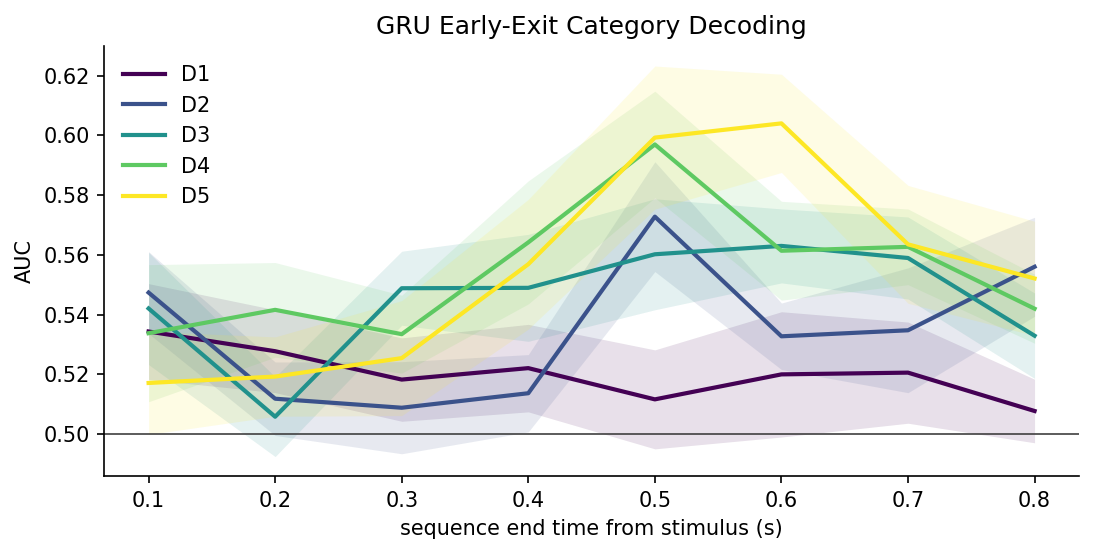
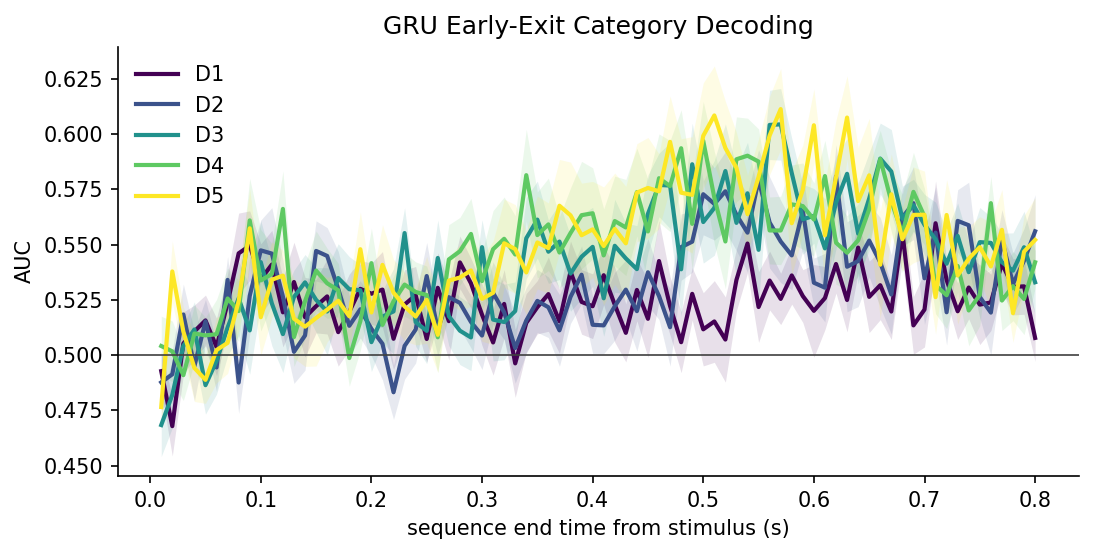
rnn

diff --git a/code/rnn_mvpa_gru_analysis.py b/code/rnn_mvpa_gru_analysis.py
@@ -37,7 +37,7 @@ OUTPUT_DIR = PROJECT_DIR / "output"
 TMIN = 0.0
 TMAX = 0.8
 RESAMPLE_HZ = 128.0
-END_TIMES_SEC = np.array([0.10, 0.20, 0.30, 0.40, 0.50, 0.60, 0.70, 0.80])
+END_TIMES_SEC = np.round(np.arange(0.01, 0.8001, 0.01), 2)
 
 RANDOM_STATE = 42
 HIDDEN_SIZE = 16
@@ -49,7 +49,7 @@ LEARNING_RATE = 0.001
 WEIGHT_DECAY = 0.0001
 MIN_CLASS_TRIALS = 12
 PROGRESS_EVERY_SUBJECTS = 1
-N_WORKERS = 4
+N_WORKERS = 16
 
 torch.set_num_threads(1)
 try:
@@ -452,45 +452,66 @@ def run_rnn_mvpa_gru_analysis(output_dir: Path | str = OUTPUT_DIR):
     qc_csv = output_dir / "rnn_mvpa_gru_qc_log.csv"
     progress_json = output_dir / "rnn_mvpa_gru_progress.json"
 
-    for path in [transfer_csv, transfer_summary_csv, score_csv, score_summary_csv, qc_csv]:
-        if path.exists():
-            path.unlink()
-
     t0 = time.time()
     sessions = load_sequence_sessions(load_epochs=False)
     by_subject = {}
     for item in sessions:
         by_subject.setdefault(int(item["subject"]), {})[int(item["day"])] = item
 
+    subjects = sorted(by_subject)
     all_transfer_rows = []
     all_score_rows = []
     all_qc_rows = []
-    subjects = sorted(by_subject)
+    completed_subjects = set()
+
+    if transfer_csv.exists():
+        existing_transfer = pd.read_csv(transfer_csv)
+        if not existing_transfer.empty:
+            expected_end_times = set(np.round(END_TIMES_SEC, 2).tolist())
+            for subject, g in existing_transfer.groupby("subject"):
+                got_end_times = set(np.round(g["end_time_sec"].to_numpy(float), 2).tolist())
+                if expected_end_times.issubset(got_end_times):
+                    completed_subjects.add(int(subject))
+            existing_transfer = existing_transfer[
+                existing_transfer["subject"].isin(completed_subjects)
+            ].copy()
+            all_transfer_rows = existing_transfer.to_dict("records")
+    if score_csv.exists() and completed_subjects:
+        existing_score = pd.read_csv(score_csv)
+        existing_score = existing_score[existing_score["subject"].isin(completed_subjects)].copy()
+        all_score_rows = existing_score.to_dict("records")
+    if qc_csv.exists():
+        existing_qc = pd.read_csv(qc_csv)
+        all_qc_rows = existing_qc.to_dict("records")
+
+    subjects_to_run = [subject for subject in subjects if subject not in completed_subjects]
     write_progress(
         progress_json,
         {
             "status": "started",
             "subjects_total": len(subjects),
-            "subjects_done": 0,
+            "subjects_done": len(completed_subjects),
             "last_subject": None,
             "elapsed_min": 0.0,
         },
     )
     print(
-        f"[RNN MVPA] starting {len(subjects)} subjects, "
+        f"[RNN MVPA] starting {len(subjects_to_run)} missing of {len(subjects)} subjects, "
         f"{len(END_TIMES_SEC)} end times, {N_WORKERS} workers",
         flush=True,
     )
+    if completed_subjects:
+        done_text = ", ".join(f"P{subject}" for subject in sorted(completed_subjects))
+        print(f"[RNN MVPA] resuming after completed subjects: {done_text}", flush=True)
 
-    def record_subject_result(subject_i, subject, transfer_rows, score_rows, qc_rows):
-        all_transfer_rows.extend(transfer_rows)
-        all_score_rows.extend(score_rows)
-        all_qc_rows.extend(qc_rows)
-
+    def write_current_outputs():
         transfer_df = pd.DataFrame(all_transfer_rows)
         score_df = pd.DataFrame(all_score_rows)
         qc_df = pd.DataFrame(all_qc_rows)
         if not transfer_df.empty:
+            transfer_df = transfer_df.sort_values(
+                ["subject", "end_time_sec", "train_day", "test_day"]
+            )
             transfer_df.to_csv(transfer_csv, index=False)
             transfer_summary = (
                 transfer_df.groupby(["end_time_sec", "train_day", "test_day"], as_index=False)
@@ -509,31 +530,39 @@ def run_rnn_mvpa_gru_analysis(output_dir: Path | str = OUTPUT_DIR):
             transfer_summary.to_csv(transfer_summary_csv, index=False)
         if not score_df.empty:
             score_df = add_delta_bic(score_df)
+            score_df = score_df.sort_values(["subject", "end_time_sec", "model_label"])
             score_df.to_csv(score_csv, index=False)
             summarize_scores(score_df).to_csv(score_summary_csv, index=False)
         if not qc_df.empty:
             qc_df.to_csv(qc_csv, index=False)
 
+    def record_subject_result(subject_i, subject, transfer_rows, score_rows, qc_rows):
+        all_transfer_rows.extend(transfer_rows)
+        all_score_rows.extend(score_rows)
+        all_qc_rows.extend(qc_rows)
+        write_current_outputs()
+
         elapsed_min = (time.time() - t0) / 60.0
+        subjects_done = len(completed_subjects) + subject_i
         write_progress(
             progress_json,
             {
                 "status": "running",
                 "subjects_total": len(subjects),
-                "subjects_done": subject_i,
+                "subjects_done": subjects_done,
                 "last_subject": int(subject),
                 "elapsed_min": round(elapsed_min, 2),
             },
         )
         if subject_i % PROGRESS_EVERY_SUBJECTS == 0:
             print(
-                f"[RNN MVPA] subject {subject_i}/{len(subjects)} done "
+                f"[RNN MVPA] subject {subjects_done}/{len(subjects)} done "
                 f"(P{subject}, {elapsed_min:.1f} min)",
                 flush=True,
             )
 
     if N_WORKERS == 1:
-        for subject_i, subject in enumerate(subjects, start=1):
+        for subject_i, subject in enumerate(subjects_to_run, start=1):
             subject, transfer_rows, score_rows, qc_rows = run_subject_job(
                 subject,
                 by_subject[subject],
@@ -543,19 +572,20 @@ def run_rnn_mvpa_gru_analysis(output_dir: Path | str = OUTPUT_DIR):
         with ProcessPoolExecutor(max_workers=N_WORKERS) as pool:
             futures = {
                 pool.submit(run_subject_job, subject, by_subject[subject]): subject
-                for subject in subjects
+                for subject in subjects_to_run
             }
             for subject_i, fut in enumerate(as_completed(futures), start=1):
                 subject, transfer_rows, score_rows, qc_rows = fut.result()
                 record_subject_result(subject_i, subject, transfer_rows, score_rows, qc_rows)
 
     elapsed_min = (time.time() - t0) / 60.0
+    write_current_outputs()
     write_progress(
         progress_json,
         {
             "status": "complete",
             "subjects_total": len(subjects),
-            "subjects_done": len(subjects),
+            "subjects_done": len(completed_subjects) + len(subjects_to_run),
             "last_subject": int(subjects[-1]) if subjects else None,
             "elapsed_min": round(elapsed_min, 2),
         },
